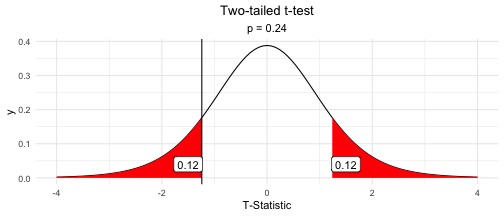
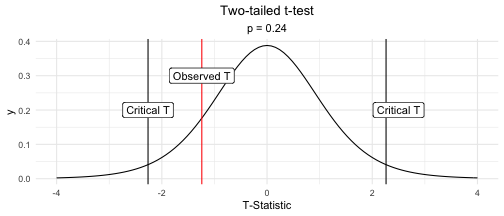
l2 update

diff --git a/slides/continuous_l2.html b/slides/continuous_l2.html
@@ -14,7 +14,7 @@ class: center, middle, inverse, title-slide
 
 # EDUC 641 Continuous Data
 ### Professor Name
-### 24 August, 2021
+### 25 August, 2021
 
 ---
 
@@ -41,7 +41,7 @@ class: inverse, center, middle
 ---
 # Normal Distributions
 
-The normal distribution is a frequently occurring phenomenon across the social and natural sciences.
+The normal distribution describes a frequently occurring phenomenon across the social and natural sciences.
 
 &lt;img src="continuous_l2_files/figure-html/unnamed-chunk-2-1.png" style="display: block; margin: auto;" /&gt;&lt;img src="continuous_l2_files/figure-html/unnamed-chunk-2-2.png" style="display: block; margin: auto;" /&gt;
 
@@ -112,8 +112,8 @@ We can use our understanding of the normal distribution to calculate the probabi
 * A normal distribution can take on any mean and standard deviation.
 
 &lt;img src="continuous_l2_files/figure-html/unnamed-chunk-6-1.png" style="display: block; margin: auto;" /&gt;
-* The area under the curve is always equal to 1.
-* The empirical rule applies to all normal distributions (e.g., 68% of observations occur within 1 SD of the mean).
+* Regardless of the mean and standard deviation, the area under the curve is always equal to 1.
+* The empirical rule still applies (e.g., 68% of observations occur within 1 SD of the mean).
 ---
 
 # Standard Normal Distribution
@@ -131,7 +131,7 @@ We can use our understanding of the normal distribution to calculate the probabi
 
 ---
 # Z-Test
-Suppose we wanted to know the probability of scoring at least 1.5 SD above the mean on a standardized test. 
+Suppose we wanted to know the probability of scoring at least 1.5 SD above the mean on a standardized test of intelligence. 
 
 &lt;img src="continuous_l2_files/figure-html/unnamed-chunk-8-1.png" style="display: block; margin: auto;" /&gt;
 To answer this question, we just need to find the area of the shaded portion under the curve.
@@ -162,7 +162,7 @@ $$ z = \frac{76-71.64}{8.15} = 0.53$$
 ---
 # Z-Test
 
-* The area under the curve above a z-score of 0.53 is .30. Therefore, the probability of randomly selecting a country with a national life expectancy greater than 76 is 30%.
+The area under the curve above a z-score of 0.53 is .30. Therefore, the probability of randomly selecting a country with a national life expectancy greater than 76 is 30%.
 
 &lt;img src="continuous_l2_files/figure-html/unnamed-chunk-11-1.png" style="display: block; margin: auto;" /&gt;
 
@@ -230,6 +230,18 @@ The mean of our sampling distribution (mean of means) approximates the &lt;span 
 If we sampled all possible samples of size *n* from our population, our mean of sample means would be equal to the population mean.
 
 ---
+---
+# Central Limit Theorem
+
+* Here is a histogram of the means of 1000 random samples from our WHO data.
+* The center of the distribution is our population mean.
+* The standard deviation is the standard error of the mean.
+
+&lt;img src="continuous_l2_files/figure-html/unnamed-chunk-19-1.png" style="display: block; margin: auto;" /&gt;
+
+See the following the link for more demonstrations of the central limit theorem:
+{https://onlinestatbook.com/stat_sim/sampling_dist/ }
+---
 # Central Limit Theorem
 
 &gt; Given a population mean `\(\mu\)` and standard deviation of `\(\sigma\)`, the sampling distribution of the mean is a normal distribution with a mean equal to `\(\mu\)` and standard deviation equal to `\(\frac{\sigma}{\sqrt{n}}\)`, where *n* is the sample size.
@@ -246,17 +258,6 @@ $$ \mu_\bar{X} = \mu$$
 $$ \sigma_\bar{X} = \frac{\sigma}{\sqrt{n}}$$
 
 
-
----
-# Central Limit Theorem
-## MOVE EARLIER
-
-* Here is a histogram of the means of 1000 random samples from our WHO data.
-* The center of the distribution is our population mean.
-* The standard deviation is the standard error of the mean.
-{https://onlinestatbook.com/stat_sim/sampling_dist/ }
-
-&lt;img src="continuous_l2_files/figure-html/unnamed-chunk-20-1.png" style="display: block; margin: auto;" /&gt;
 
 ---
 SUMMARY SLIDE ON WHAT THE CENTRAL LIMIT THEOREM ALLOWS US TO DO
@@ -296,39 +297,50 @@ SUMMARY SLIDE ON WHAT THE CENTRAL LIMIT THEOREM ALLOWS US TO DO
   + e.g. Is our observed sample mean to be expected if we repeatedly drew random samples from the population?
   
   
-Example Research Question:
+**Example Research Question:**
 Suppose the known average life expectancy is 76 years with a standard deviation of 3.2. Do countries around the Mediterranean Sea significantly differ from the known population average of 76?
+
 
 ---
 # One Sample T-Test
-* Does **not** test the probability of obtaining the sample distribution or data itself, only the sample mean.
+*  The one sample t-test does **not** test the probability of obtaining the sample distribution or data itself, only the sample mean.
   
-* **Null Hypothesis** `\((H_0)\)`: `\(\mu = K\)`, where `\(K\)` is any constant.
+*  Using the probability of obtaining a particular sample mean **Null Hypothesis** `\((H_0)\)`: `\(\mu = K\)`, where `\(K\)` is any constant.
+
+
+---
+# One-Sample T-Test
+* With a z-test, we were able to find the number of observations that fell beyond a particular value. That value was our z-statistic.
+* The t-statistic is functionally like a z-statistic, but for the t-distribution.
+
+&lt;img src="continuous_l2_files/figure-html/unnamed-chunk-23-1.png" style="display: block; margin: auto;" /&gt;
+
+
+---
+# T-Distribution
+* Shape of the t-distribution is slightly different depending on the degrees of freedom `\((n-1)\)`.
+
+* Thus, the proportion of the area under the curve beyond our t-value also depends on our degrees of freedom.
+
+
+&lt;img src="continuous_l2_files/figure-html/unnamed-chunk-24-.gif" style="display: block; margin: auto;" /&gt;
 
 ---
 # One-Sample T-Test
 
-* The t-statistic is functionally like a z-score, but for the t-distribution.
-* To calculate a t-statistic,replace the population standard deviation with the sample standard deviation.
+* To calculate a t-statistic, we use the same formula to calculate a z-score, but replace the population standard deviation with the sample's standard deviation.
+
+Since we don't know the population standard deviation `\((\mu)\)`, our samples standard deviation `\((s)\)` is used as an estimate of the population standard deviation `\((\hat{\mu})\)`.
 
 $$ t = \frac{\bar{X} - \mu}{\hat{\sigma}/\sqrt{n}} $$
 
-.pull-left[
-* Distributional spread and proportion of the area under the curve beyond our t-value depends on our degrees of freedom.
-
-* Using a t-test, we can calculate the probability of obtaining a particular sample mean through random sampling.
-]
-
-.pull-right[
-&lt;img src="continuous_l2_files/figure-html/unnamed-chunk-23-.gif" style="display: block; margin: auto;" /&gt;
-]
 ---
 ## Applying a t-test
 Suppose we have data from a sample of 10 countries with a mean life expectancy of 66.87 and standard deviation of 5.82.
 
 If our population mean is thought to be 78.16 `\((H_0: \sigma = 78.16)\)`, what is the probability of obtaining a sample mean of 66.87, **or a more extreme mean value**, due to random sampling variability?
 `$$t(9) = \frac{66.87 - 75.16}{5.82/\sqrt{9}} = -1.24$$`
-&lt;img src="continuous_l2_files/figure-html/unnamed-chunk-24-1.png" style="display: block; margin: auto;" /&gt;
+&lt;img src="continuous_l2_files/figure-html/unnamed-chunk-25-1.png" style="display: block; margin: auto;" /&gt;
 
 ---
 # Applying a t-test
@@ -336,13 +348,13 @@ If our population mean is thought to be 78.16 `\((H_0: \sigma = 78.16)\)`, what 
 Assuming a population mean of 78.16 and sample size of 10...
 
 .pull-left[
-&lt;img src="continuous_l2_files/figure-html/unnamed-chunk-25-1.png" style="display: block; margin: auto;" /&gt;
+&lt;img src="continuous_l2_files/figure-html/unnamed-chunk-26-1.png" style="display: block; margin: auto;" /&gt;
 
 ...the proportion of random samples that would demonstrate a sample mean **equal to or lower than 66.87** is 0.12 (i.e., *p* = 0.12).
 ]
 
 .pull-right[
-&lt;img src="continuous_l2_files/figure-html/unnamed-chunk-26-1.png" style="display: block; margin: auto;" /&gt;
+&lt;img src="continuous_l2_files/figure-html/unnamed-chunk-27-1.png" style="display: block; margin: auto;" /&gt;
 ...the proportion of random samples that would demonstrate a sample mean **equal to or more extreme than 66.87** is 0.24 (i.e., *p* = 0.24).
 ]
 
@@ -387,7 +399,7 @@ Tests the possibility of a significant difference in either direction.
 # Demonstration
 
 Dr. DSM finds that the mean post-intervention depression rating did not fall below the critical t-value for the one-tailed test. The new intervention group did not demonstrate significantly lower than normal post-treatment averages.
-&lt;img src="continuous_l2_files/figure-html/unnamed-chunk-27-1.png" style="display: block; margin: auto;" /&gt;
+&lt;img src="continuous_l2_files/figure-html/unnamed-chunk-28-1.png" style="display: block; margin: auto;" /&gt;
 
 What conclusion was missed with the one-tailed test?
 ---
@@ -397,7 +409,7 @@ What conclusion was missed with the one-tailed test?
 * Critical t-values `\(t_{\alpha/2}(df)\)` are the thresholds at which our alpha threshold is met.
   + Vary depending on `\(df\)` and `\(\alpha\)`
   
-&lt;img src="continuous_l2_files/figure-html/unnamed-chunk-28-1.png" style="display: block; margin: auto;" /&gt;
+&lt;img src="continuous_l2_files/figure-html/unnamed-chunk-29-1.png" style="display: block; margin: auto;" /&gt;
 
 With two-tailed tests, the total alpha is "split" across both tails of the distribution `\((\alpha(.05)/2 = .025)\)`.
 
@@ -407,12 +419,12 @@ With two-tailed tests, the total alpha is "split" across both tails of the distr
 
 .pull-left[
 Our observed t-value did not surpass our critical t-values.
-&lt;img src="continuous_l2_files/figure-html/unnamed-chunk-29-1.png" style="display: block; margin: auto;" /&gt;
+&lt;img src="continuous_l2_files/figure-html/unnamed-chunk-30-1.png" style="display: block; margin: auto;" /&gt;
 ]
 
 .pull-right[
 Our p-value is not less than .05 and does not satisfy our alpha threshold.
-&lt;img src="continuous_l2_files/figure-html/unnamed-chunk-30-1.png" style="display: block; margin: auto;" /&gt;
+&lt;img src="continuous_l2_files/figure-html/unnamed-chunk-31-1.png" style="display: block; margin: auto;" /&gt;
 ]
 
 Assuming a population mean of 78.16 and sample size of 10, the proportion of random samples that would demonstrate a sample mean **equal to or more extreme than 66.87** is 0.24 `\((t = -1.24, p = 0.24)\)`. Because our p-value does not meet our alpha threshold of .05, we **fail to reject the null hypothesis**.
@@ -464,17 +476,17 @@ Suppose we have two populations of students - &lt;span style="color: red;"&gt; s
 
 Just like with our one-sample t-test, every time we sample each population, we obtain a new estimated difference between the two groups.
 
-&lt;img src="continuous_l2_files/figure-html/unnamed-chunk-33-.gif" style="display: block; margin: auto;" /&gt;
+&lt;img src="continuous_l2_files/figure-html/unnamed-chunk-34-.gif" style="display: block; margin: auto;" /&gt;
 
 ---
 
 As we take repeated samples, the estimated difference in means forms its own normal distribution.
 
-&lt;img src="continuous_l2_files/figure-html/unnamed-chunk-34-.gif" style="display: block; margin: auto;" /&gt;
+&lt;img src="continuous_l2_files/figure-html/unnamed-chunk-35-.gif" style="display: block; margin: auto;" /&gt;
 
 Just like the with the one-sample t-test, the &lt;span style="color: orange;"&gt; mean of sample statistics &lt;/span&gt; approaches the &lt;span style="color: purple;"&gt; population statistic &lt;/span&gt; with repeated sampling.
 
-&lt;img src="continuous_l2_files/figure-html/unnamed-chunk-35-.gif" style="display: block; margin: auto;" /&gt;
+&lt;img src="continuous_l2_files/figure-html/unnamed-chunk-36-.gif" style="display: block; margin: auto;" /&gt;
 
 ---
 ADD SLIDE THAT SHOWS CONVERGENCE TO NORMAL DISTRIUBTION
@@ -549,7 +561,7 @@ $$  t = \frac{\bar{X}_1 - \bar{X}_2}{SE} = \frac{-8.44}{\sqrt{\frac{{9.57}^2}{12
 # Evaluating the Null Hypothesis
 
 The p-value for a two-tailed test with a t-value of -2.84 and degrees of freedom is .006. 
-&lt;img src="continuous_l2_files/figure-html/unnamed-chunk-36-1.png" style="display: block; margin: auto;" /&gt;
+&lt;img src="continuous_l2_files/figure-html/unnamed-chunk-37-1.png" style="display: block; margin: auto;" /&gt;
 
 Assuming the null hypothesis is true, the probability of obtaining a difference in sample means of +/- 8.44 or greater is .006. Because this is highly unlikely (p = .006 &lt; .05), we can **reject the null hypothesis**.
 
